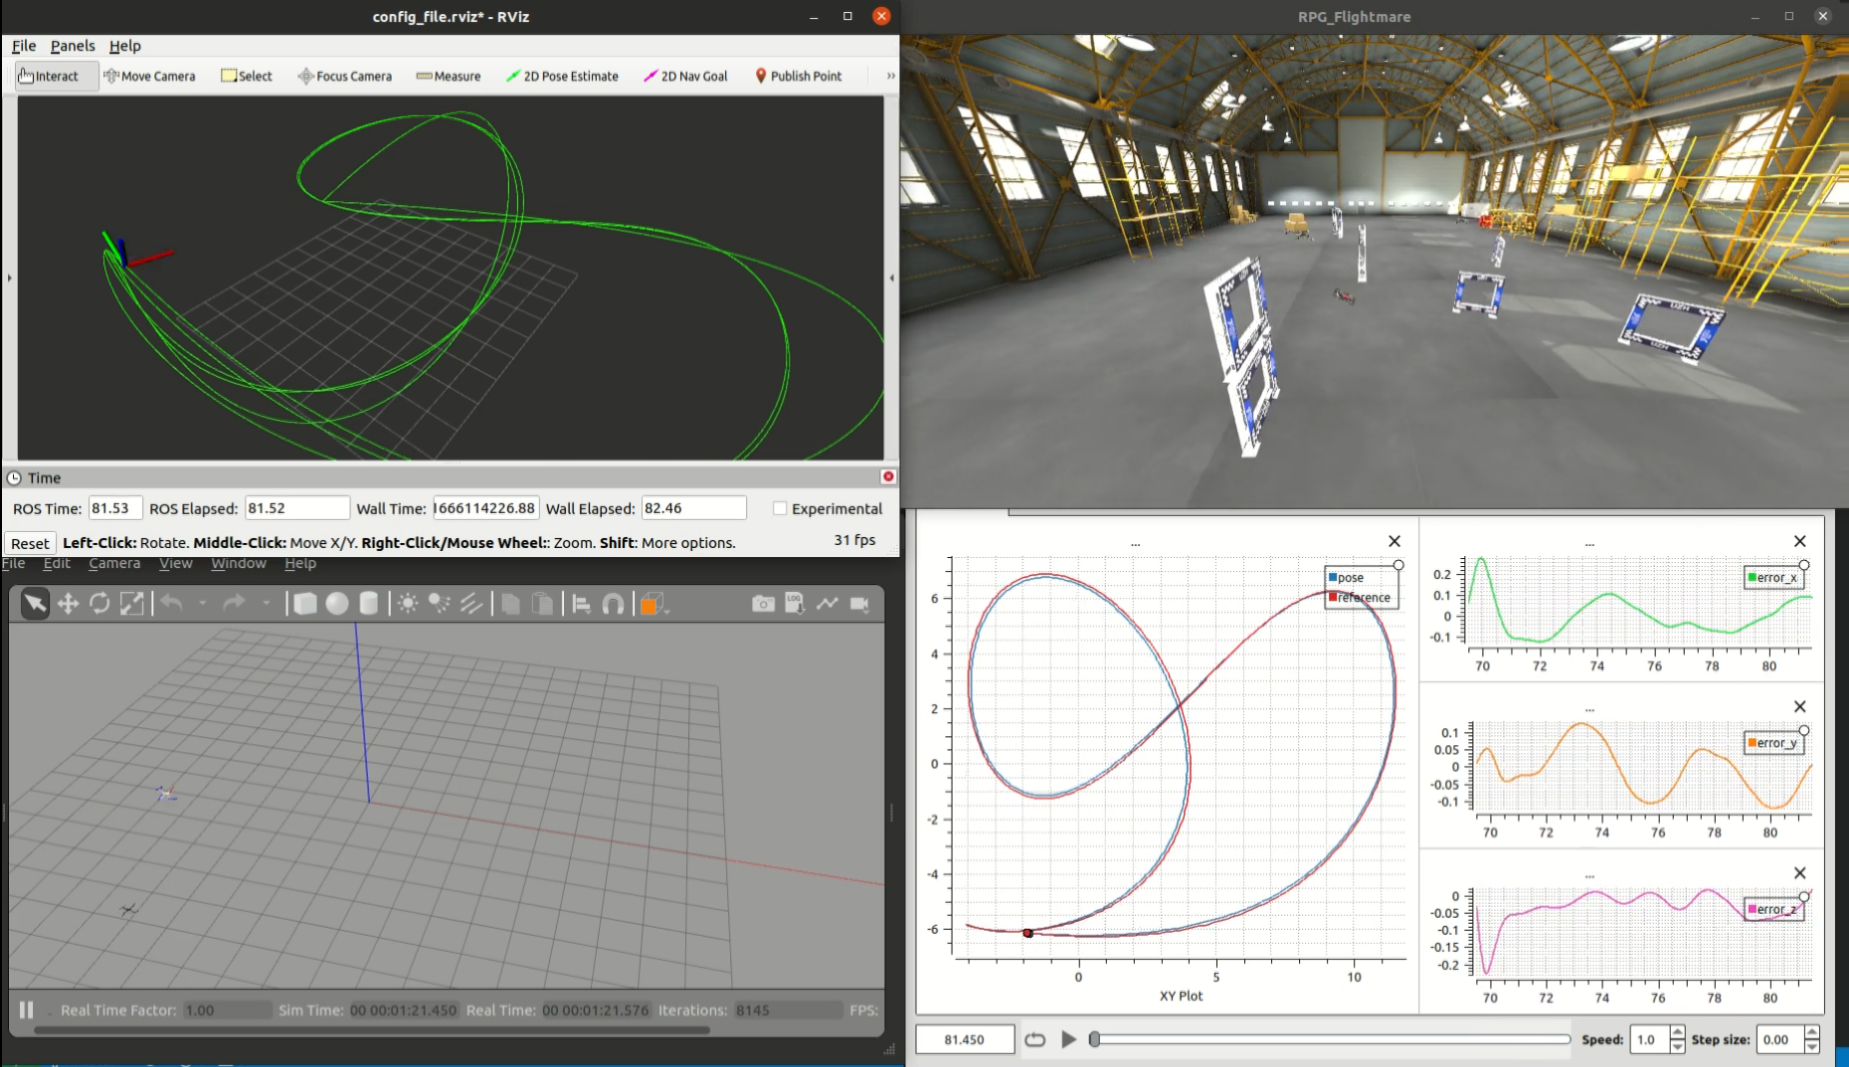
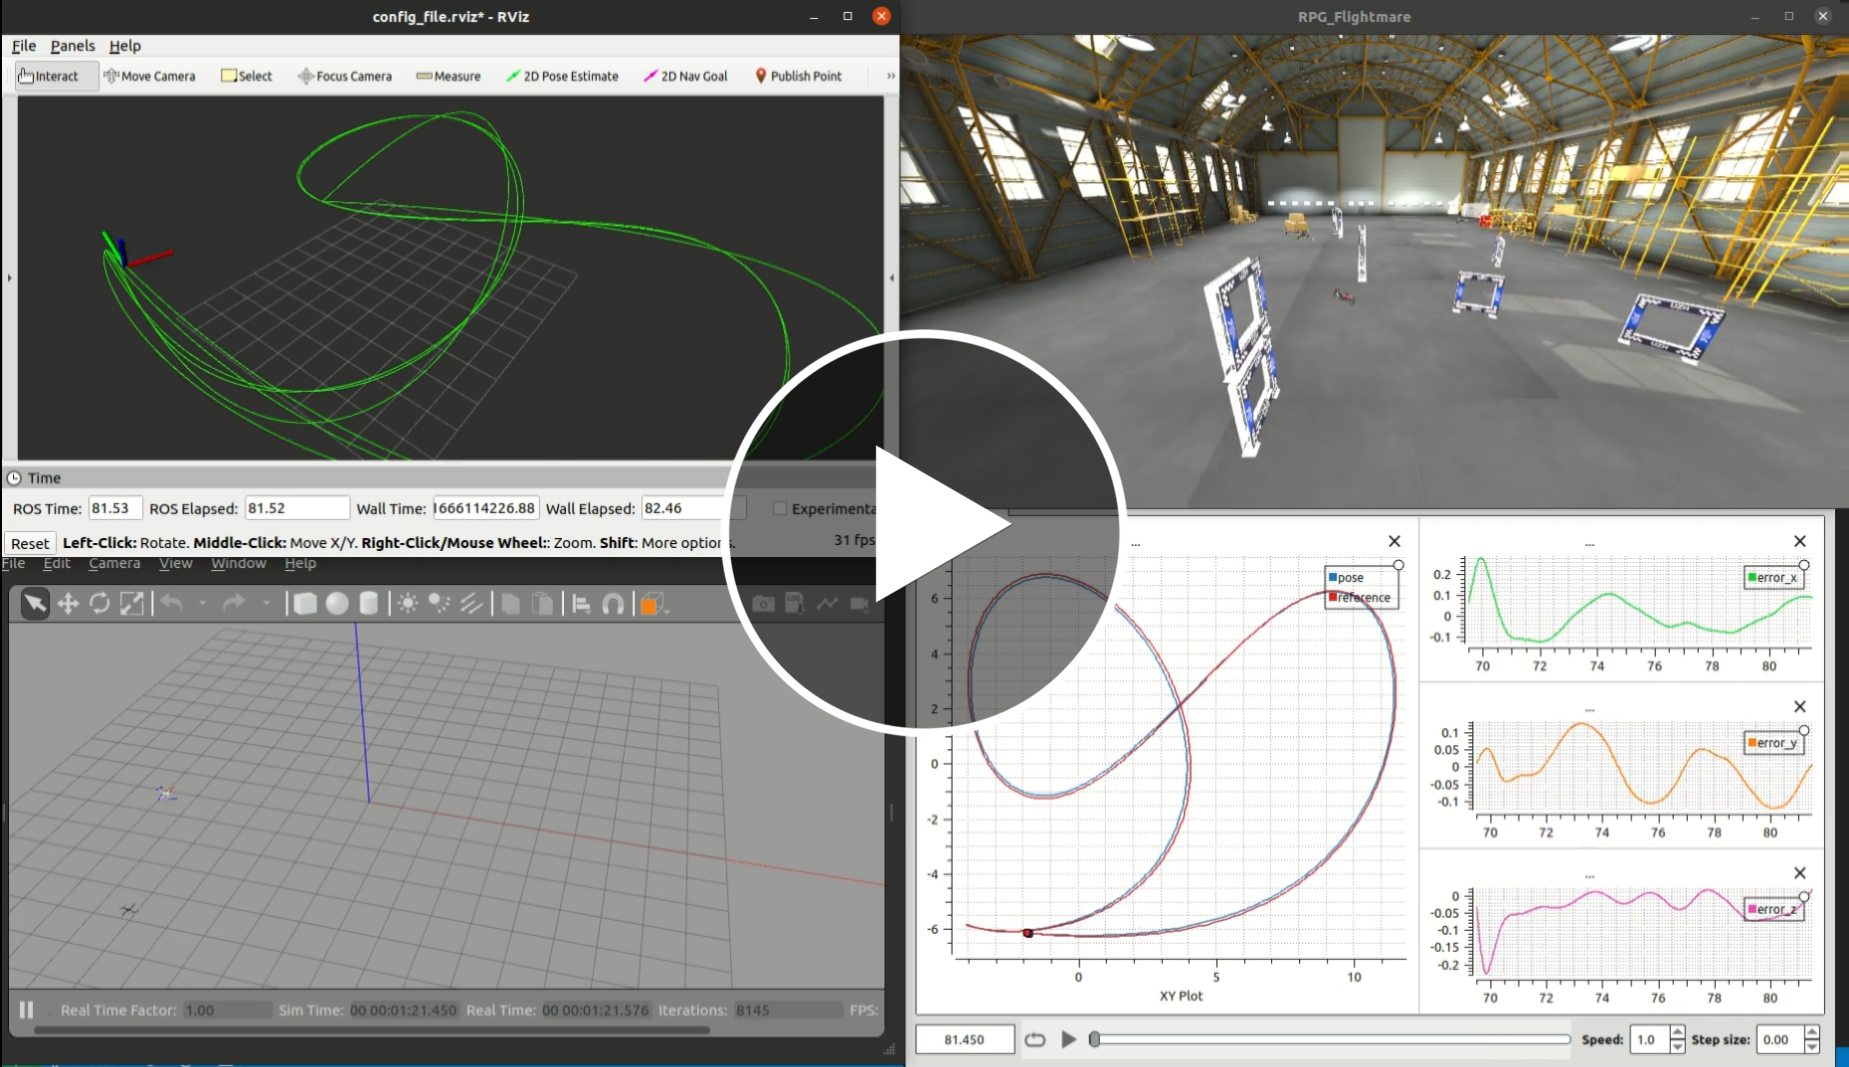
edit thumbnails

Changed region(s): [[0.3699, 0.3093, 0.6165, 0.7113]]

diff --git a/README.md b/README.md
@@ -3,7 +3,12 @@ Racing Drones Simulation Framework
 
 This repositories contains various packages to simulate drone racing. This is primarily based on [Flightmare](https://github.com/uzh-rpg/flightmare), [RotorS](https://github.com/ethz-asl/rotors_simulator), [RPG Quadrotor Control](https://github.com/uzh-rpg/rpg_quadrotor_control) and [RPG MPC](https://github.com/uzh-rpg/rpg_mpc).
 
+
+Drone Racing using Nonlinear Model Predictive Control
 [![IMAGE ALT TEXT HERE](./nmpc_thumbnail.png)](https://youtu.be/mKJUHDs2lqE)
+
+
+Drone Racing using Differential Flatness-based Control
 [![IMAGE ALT TEXT HERE](./dfbc_thumbnail.png)](https://youtu.be/3pVV3MGlQcE)
 
 
